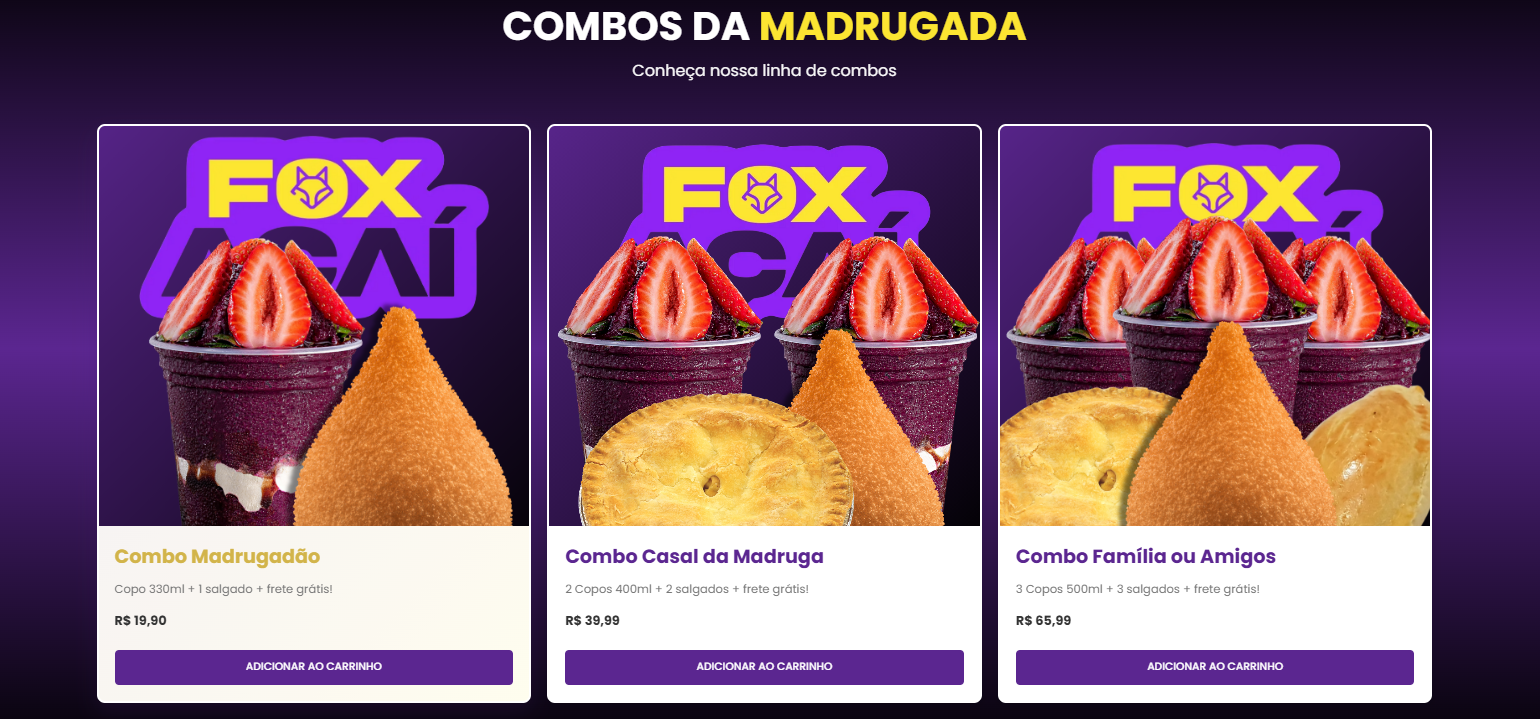
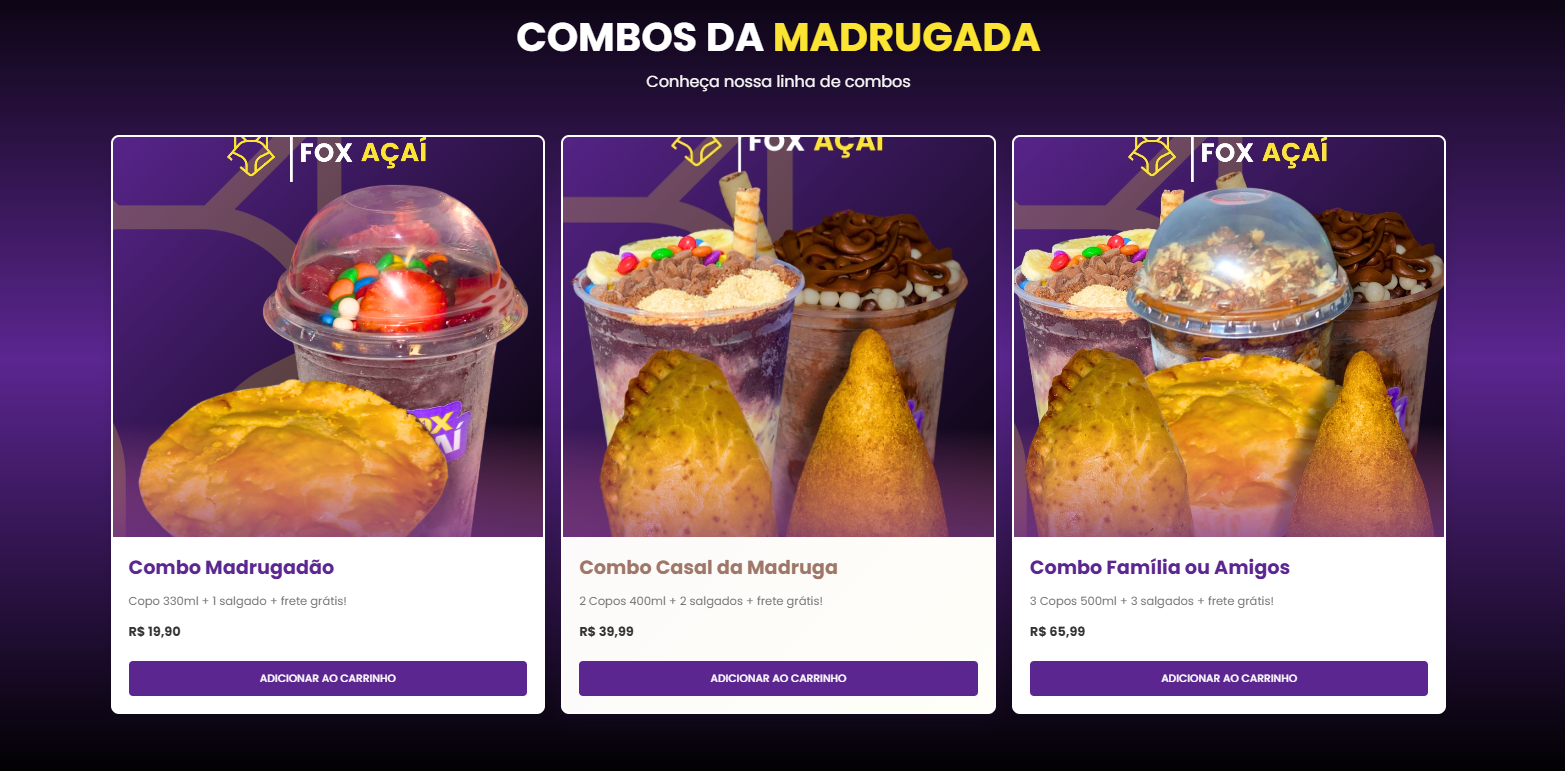
Estilização dos cards

diff --git a/css/style.css b/css/style.css
@@ -555,7 +555,7 @@ nav ul li a:hover {
 }
 
 .product-image {
-    height: 250px;
+    height: 300px;
     overflow: hidden;
     position: relative;
 }
@@ -2536,7 +2536,6 @@ footer::before {
 
 /* Estilização dos Cards */
 .CardCardapio {
-
     backdrop-filter: blur(10px);
     border-radius: 20px;
     overflow: hidden;
@@ -2561,7 +2560,7 @@ footer::before {
     display: flex;
     justify-content: center;
     align-items: center;
-    height: 190px;
+    height: 203px;
 }
 
 .CardCardapioFoto::before {
@@ -2588,7 +2587,7 @@ footer::before {
 
 .CardCardapioFoto img {
     width: 100%;
-    object-fit: contain;
+    object-fit: cover;
 }
 
 /* .cardapioCards:hover .CardCardapioFoto img {

diff --git a/index.html b/index.html
@@ -74,7 +74,6 @@
     <div class="cardapiogeral" id="CardapioGeral">
     </div>
 
-
     <section class="CardapioCentral" id="central">
         <h1>Cardapio FOX</h1>
         <p>Cardapio do melhor açaí da região. Confira nossos especiais, combos, salgados e personalização dos açaí</p>
